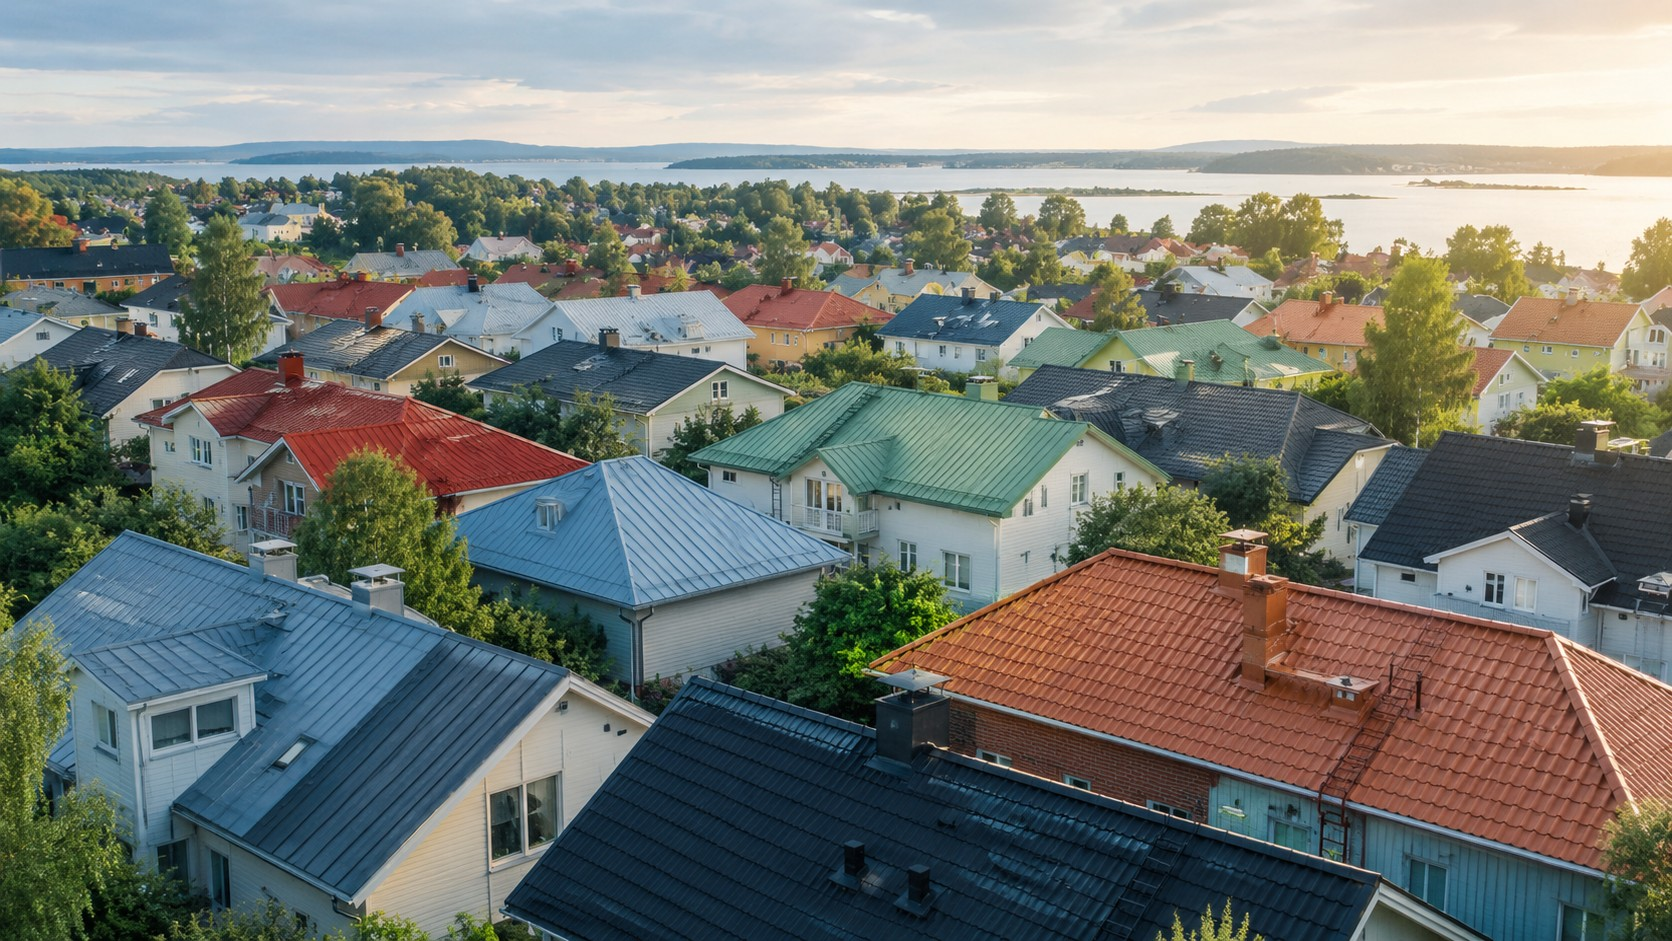
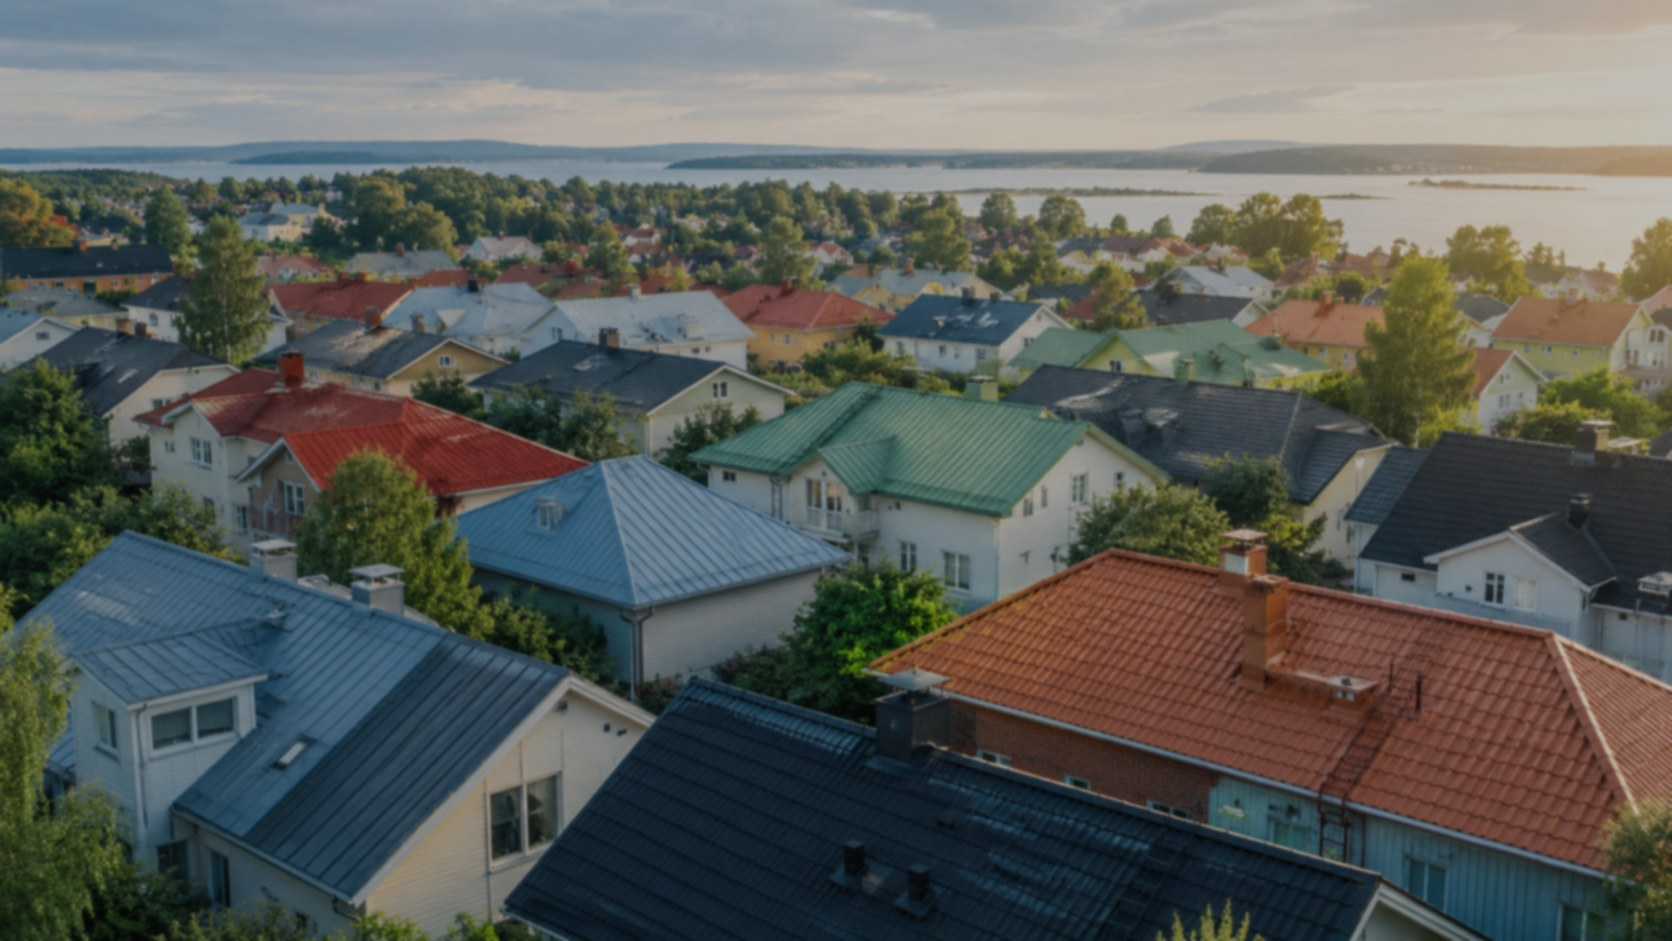
Add files via upload

diff --git a/frontend/src/style.css b/frontend/src/style.css
@@ -112,7 +112,7 @@ body {
   bottom: 12px;
   padding: 12px;
   border-radius: 24px;
-  background: rgba(255, 255, 255, 0.94);
+  background: rgba(255, 255, 255, 0.96);
   border: 1px solid rgba(226, 232, 240, 0.9);
   box-shadow: var(--shadow);
   backdrop-filter: blur(10px);
@@ -619,7 +619,7 @@ body {
   width: min(420px, calc(100vw - 24px));
   padding: 16px;
   border-radius: 24px;
-  background: rgba(255, 255, 255, 0.94);
+  background: rgba(255, 255, 255, 0.96);
   border: 1px solid rgba(226, 232, 240, 0.95);
   box-shadow: 0 18px 50px rgba(15, 23, 42, 0.16);
   backdrop-filter: blur(12px);
@@ -670,19 +670,24 @@ body {
 
 
 .login-screen {
+  position: fixed;
+  inset: 0;
+  z-index: 3000;
+  display: flex;
+  align-items: center;
+  justify-content: center;
+  padding: 18px;
   background:
-    linear-gradient(rgba(15, 23, 42, 0.52), rgba(15, 23, 42, 0.34)),
-    url("/login-roofs-bg.jpg");
-  background-size: cover;
-  background-position: center;
-  background-repeat: no-repeat;
+    radial-gradient(circle at top left, rgba(37, 99, 235, 0.22), transparent 34%),
+    radial-gradient(circle at bottom right, rgba(22, 163, 74, 0.18), transparent 34%),
+    linear-gradient(180deg, #f8fafc 0%, #eaf2ff 100%);
 }
 
 .login-card {
   width: min(430px, 100%);
   padding: 24px;
   border-radius: 30px;
-  background: rgba(255, 255, 255, 0.94);
+  background: rgba(255, 255, 255, 0.96);
   border: 1px solid rgba(226, 232, 240, 0.95);
   box-shadow: 0 24px 70px rgba(15, 23, 42, 0.18);
   backdrop-filter: blur(16px);
@@ -789,11 +794,6 @@ body {
 }
 
 @media (max-width: 760px) {
-
-  .login-screen {
-    background-position: center center;
-  }
-
 
   .welcome-card {
     top: 58px;
@@ -1097,7 +1097,7 @@ body {
     position: sticky;
     top: -18px;
     z-index: 5;
-    background: rgba(255, 255, 255, 0.94);
+    background: rgba(255, 255, 255, 0.96);
     backdrop-filter: blur(12px);
     padding-top: 6px;
     padding-bottom: 12px;
@@ -1287,3 +1287,39 @@ body {
 }
 
 .welcome-card { display: none !important; }
+
+
+/* Korjattu kirjautumissivun taustakuva */
+.login-screen {
+  position: fixed !important;
+  inset: 0 !important;
+  z-index: 3000 !important;
+  display: flex !important;
+  align-items: center !important;
+  justify-content: center !important;
+  padding: 18px !important;
+  background-image:
+    linear-gradient(135deg, rgba(15, 23, 42, 0.70), rgba(15, 76, 129, 0.38), rgba(15, 23, 42, 0.56)),
+    url("/login-roofs-bg.jpg") !important;
+  background-size: cover !important;
+  background-position: center center !important;
+  background-repeat: no-repeat !important;
+}
+
+.login-card {
+  background: rgba(255, 255, 255, 0.94) !important;
+  border: 1px solid rgba(255, 255, 255, 0.68) !important;
+  box-shadow: 0 34px 95px rgba(0, 0, 0, 0.34) !important;
+  backdrop-filter: blur(18px) !important;
+}
+
+@media (max-width: 760px) {
+  .login-screen {
+    background-position: center center !important;
+    padding: 14px !important;
+  }
+
+  .login-card {
+    border-radius: 24px !important;
+  }
+}

diff --git a/README.md b/README.md
@@ -1,9 +1,12 @@
-# Kattokartta - kirjautumissivun taustakuva
+# Kattokartta - taustakuva korjattu
 
-Muutokset:
-- lisätty kirjautumissivun taustalle kuva, jossa näkyy paljon erivärisiä kattoja
-- taustakuva tuodaan tiedostosta /frontend/public/login-roofs-bg.jpg
-- kirjautumiskortti säilyy helposti luettavana kuvan päällä
+Korjattu:
+- kirjautumissivun taustakuva näkyy nyt varmasti koko ruudulla
+- taustakuvaa on hieman tummennettu ja pehmennetty, jotta kirjautumiskortti erottuu
+- CSS:ään lisätty vahva override, ettei aiemmat taustasäännöt jää päälle
+
+Taustakuva:
+frontend/public/login-roofs-bg.jpg
 
 Render-asetukset:
 
